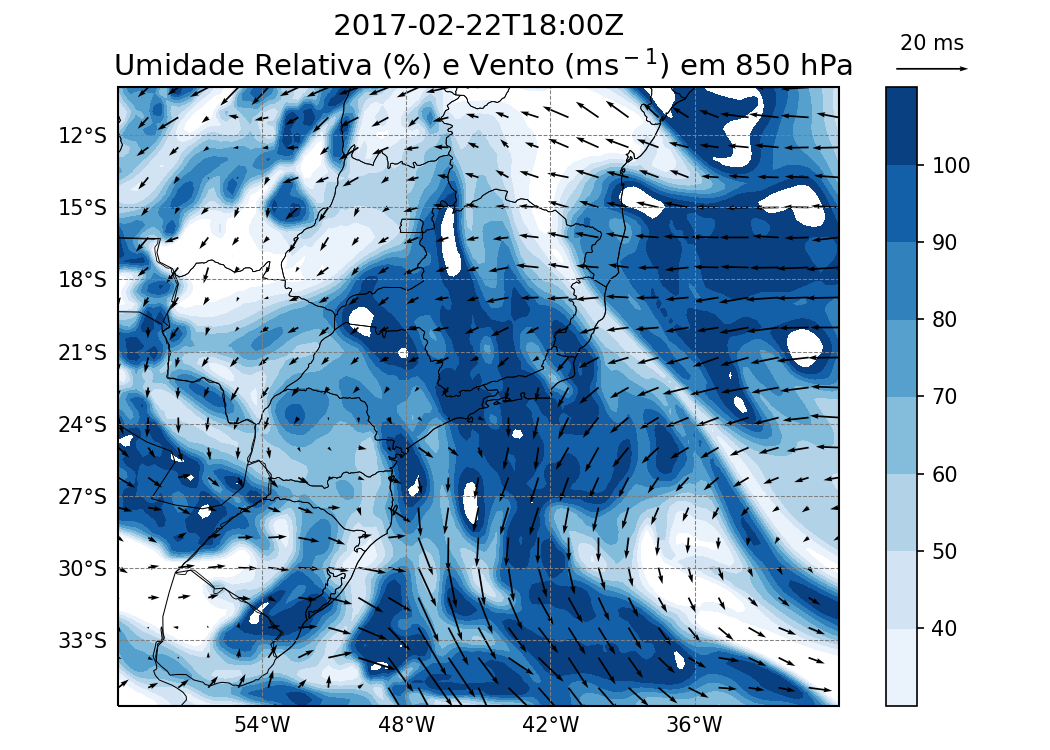
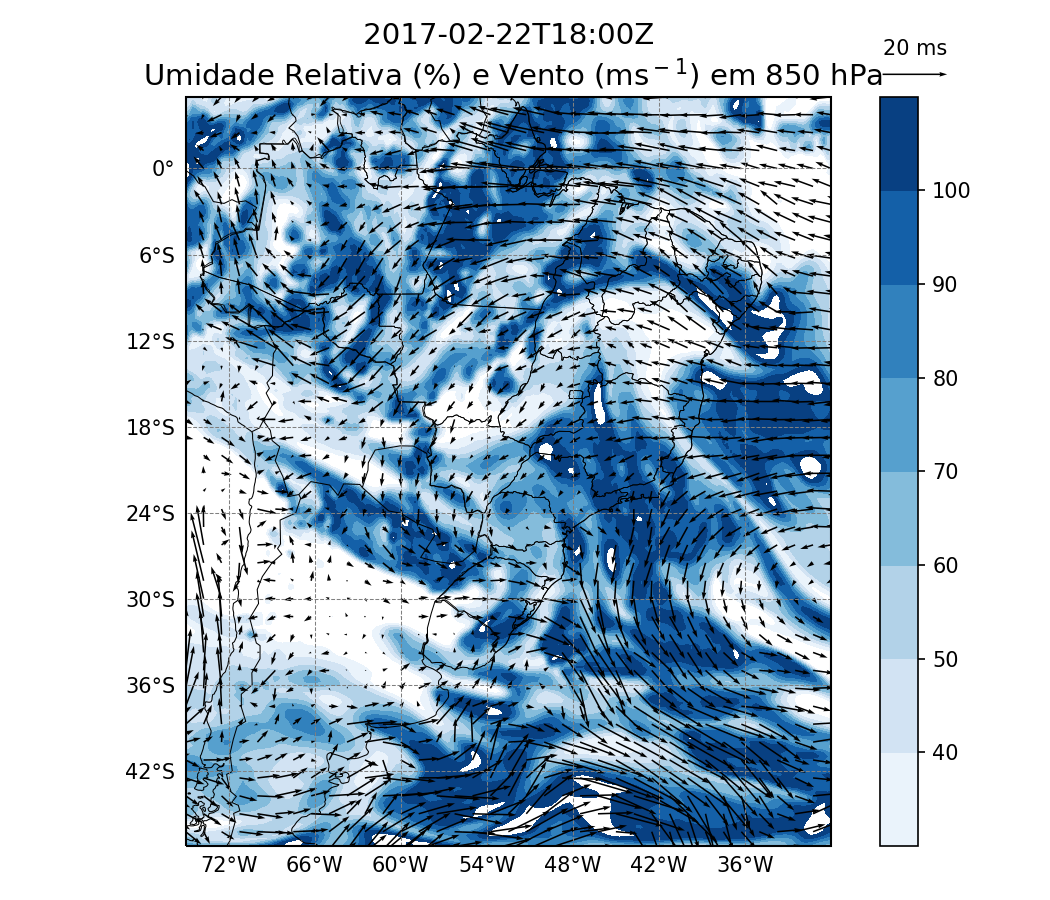
New things!

diff --git a/scripts/ERA_Imagens.py b/scripts/ERA_Imagens.py
@@ -29,12 +29,9 @@ for t in range(0, len(ps['time'])):
     time = ps['time'][t]
     tempo = np.datetime_as_string(time, unit='m', timezone = 'UTC')
          
-    hgt_500 = ps['z'][t][0][:][:]
-    hgt_1000 = ps['z'][t][2][:][:]
-    thk = (hgt_500-hgt_1000)/10
     
-    #Creating the figure plot area:
-    def brazil_states(projection = ccrs.PlateCarree()):
+    #Creating the  plot area:
+    def sudeste_states(projection = ccrs.PlateCarree()):
         fig, ax = plt.subplots(figsize=(7,5), subplot_kw=dict(projection=projection))
         ax.set_extent([-60,-30,-35,-10])
         ax.add_feature(cfeature.COASTLINE.with_scale('50m'), linewidth = 0.5)
@@ -46,30 +43,25 @@ for t in range(0, len(ps['time'])):
         img_plot.yformatter=LATITUDE_FORMATTER
         return fig, ax
     projection = ccrs.PlateCarree()
-    fig, ax = brazil_states()
+    fig, ax = sudeste_states()
     states = NaturalEarthFeature(category='cultural', scale='50m', 
                                  facecolor='none',name='admin_1_states_provinces_shp', linewidth = 0.4)
     states = ax.add_feature(states, edgecolor='black')
     
-    
-    # Ploting jetstreams:
-    upper_u = ps['u'][t][0][:][:]
-    upper_v = ps['v'][t][0][:][:]    
-    jet_stream = mpcalc.wind_speed(upper_u, upper_v)
-    div = ps['d'][t][0][:][:] * 10**4
-    
-    skip = 5
-    plt.title('{} \n Divergência (s$^-$$^1$) 10$^-$$^5$ e  Vento (ms$^-$$^1$) em 200 hPa'.format(tempo), fontsize=14)
-    img_plot = plt.contourf(lons, lats, div, levels = np.arange(-2,3,0.5), cmap='PuBuGn_r', transform=projection)
-    cbr = plt.colorbar(img_plot)
-    img_plot = plt.quiver(lons[::skip], lats[::skip], upper_u[::skip,::skip], upper_v[::skip,::skip],
-                          angles='xy', transform=projection, scale=300)
-    img_plot = plt.quiverkey(img_plot, 1.13, 1.03, 30, '30 m/s')
+    # #Ploting Divergence
+    # div = ps['d'][t][0][:][:] * 10**4
+    # skip = 5
+    # plt.title('{} \n Divergência (s$^-$$^1$) 10$^-$$^5$ e  Vento (ms$^-$$^1$) em 200 hPa'.format(tempo), fontsize=14)
+    # img_plot = plt.contourf(lons, lats, div, levels = np.arange(-2,3,0.5), cmap='PuBuGn_r', transform=projection)
+    # cbr = plt.colorbar(img_plot)
+    # img_plot = plt.quiver(lons[::skip], lats[::skip], upper_u[::skip,::skip], upper_v[::skip,::skip],
+    #                       angles='xy', transform=projection, scale=300)
+    # img_plot = plt.quiverkey(img_plot, 1.13, 1.03, 30, '30 m/s')
 
-    fig.canvas.draw()
-    plt.tight_layout()
-    plt.savefig('/home/isabela/Mestrado/MiniProjects/ERA5/Imagens/Upper_level_0' + tempo + '.png')
-    plt.clf()
+    # fig.canvas.draw()
+    # plt.tight_layout()
+    # plt.savefig('/home/isabela/Weather_Data_Science/ERA5/Imagens/Upper_level_0' + tempo + '.png')
+    # plt.clf()
 
     # #Ploting 850hPa: humidity and wind
     wind_u = ps['u'][t][4][:][:]
@@ -77,7 +69,7 @@ for t in range(0, len(ps['time'])):
     rh_850 = ps['r'][t][1][:][:]
     
     projection = ccrs.PlateCarree()
-    fig, ax = brazil_states()
+    fig, ax = sudeste_states()
     
     states = NaturalEarthFeature(category='cultural', scale='50m', facecolor='none',name='admin_1_states_provinces_shp', linewidth = 0.4)
     states = ax.add_feature(states, edgecolor='black')
@@ -92,15 +84,16 @@ for t in range(0, len(ps['time'])):
 
     fig.canvas.draw()
     plt.tight_layout()
-    plt.savefig('/home/isabela/Mestrado/MiniProjects/ERA5/Imagens/UR_vento_0' + tempo + '.png')
+    plt.savefig('/home/isabela/Weather_Data_Science/ERA5/Imagens/UR_vento_zoom_0' + tempo + '.png')
     plt.clf()
+    
     # Mean RH 
     rh_700 = ps['r'][t][3][:][:]
     rh_500 = ps['r'][t][2][:][:]
     
     mean_rh = (rh_500+rh_700)/2
 
-    fig, ax = brazil_states()
+    fig, ax = sudeste_states()
     states = NaturalEarthFeature(category='cultural', scale='50m', facecolor='none',name='admin_1_states_provinces_shp', linewidth = 0.4)
     states = ax.add_feature(states, edgecolor='black')
     
@@ -113,15 +106,12 @@ for t in range(0, len(ps['time'])):
     fig.canvas.draw()
     plt.tight_layout()
 
-    plt.savefig('/home/isabela/Mestrado/MiniProjects/ERA5/Imagens/UR_Media' + tempo + '.png')
+    plt.savefig('/home/isabela/Weather_Data_Science/ERA5/Imagens/UR_Media' + tempo + '.png')
     plt.clf()
 
 
     # Plotting Surface: MSLP and 850 hPa Temperature
-    prnm = sgl['msl'][t][:][:]
-    prnm = prnm/100
-    smooth_press = smooth2d(prnm,10, cenweight=0.5)
-    t_850 = ps['t'][t][4][:][:] - 273.15
+
     
     
     def brazil(projection = ccrs.PlateCarree()):
@@ -141,21 +131,55 @@ for t in range(0, len(ps['time'])):
     states = NaturalEarthFeature(category='cultural', scale='50m', facecolor='none',name='admin_1_states_provinces_shp', linewidth = 0.4)
     states = ax.add_feature(states, edgecolor='black')
     
-    plt.title('{} \n PRNM (hPa) e Temperatura em 850 hPa'.format(tempo), fontsize=14)
+
+    # #Ploting 850hPa: humidity and wind
+    wind_u = ps['u'][t][4][:][:]
+    wind_v = ps['v'][t][4][:][:]
+    rh_850 = ps['r'][t][1][:][:]
     
-    img_plot = plt.contourf(lons, lats, t_850, transform=projection, cmap = 'coolwarm', levels=np.arange(-15,35,5))
-    plt.colorbar(img_plot)
-    img_plot = plt.contour(lons, lats, smooth_press, colors='black', 
-                           transform=projection, levels=np.arange(smooth_press.min(), smooth_press.max(),4))
-    marker = [(-42,-30),(-42.5,-29)] #usar coordenadas geográficas
-    plt.clabel(img_plot, fmt='%1.f', inline=True, manual=marker)
-       
+    projection = ccrs.PlateCarree()
+    fig, ax = brazil()
+    
+    states = NaturalEarthFeature(category='cultural', scale='50m', facecolor='none',name='admin_1_states_provinces_shp', linewidth = 0.4)
+    states = ax.add_feature(states, edgecolor='black')
+
+    plt.title(' {} \n Umidade Relativa (%) e Vento (ms$^-$$^1$) em 850 hPa'.format(tempo), fontsize=14)
+    
+    img_plot = plt.contourf(lons, lats, rh_850, levels= np.arange(30, 120, 10), cmap='Blues', transform=projection)
+    skip = 5
+    cbr = plt.colorbar(img_plot, ticks = [40,50,60,70,80,90,100])  
+    img_plot = plt.quiver(lons[::skip], lats[::skip], wind_u[::skip,::skip], wind_v[::skip,::skip],transform=projection, scale=200)
+    img_plot = plt.quiverkey(img_plot, 1.13, 1.03, 20, '20 ms')
+
     fig.canvas.draw()
     plt.tight_layout()
-    
-
-    plt.savefig('/home/isabela/Mestrado/MiniProjects/ERA5/Imagens/Temp_press' + tempo + '.png')
+    plt.savefig('/home/isabela/Weather_Data_Science/ERA5/Imagens/UR_vento_0' + tempo + '.png')
     plt.clf()
+    
+    # Ploting jetstreams:
+    upper_u = ps['u'][t][0][:][:]
+    upper_v = ps['v'][t][0][:][:]    
+    jet_stream = mpcalc.wind_speed(upper_u, upper_v)
+    
+    projection = ccrs.PlateCarree()
+    fig, ax = brazil()
+    
+    states = NaturalEarthFeature(category='cultural', scale='50m', facecolor='none',name='admin_1_states_provinces_shp', linewidth = 0.4)
+    states = ax.add_feature(states, edgecolor='black')
+
+    skip = 10
+    plt.title('{} \n Vento (ms$^-$$^1$) em 200 hPa'.format(tempo), fontsize=14)
+    img_plot = plt.contourf(lons, lats, jet_stream, levels = np.arange(20,90,10),cmap='hot_r', transform=projection)
+    cbr = plt.colorbar(img_plot)
+    img_plot = plt.quiver(lons[::skip], lats[::skip], upper_u[::skip,::skip], upper_v[::skip,::skip], transform = projection, scale=500)
+    img_plot = plt.quiverkey(img_plot, 1.13, 1.03, 50, '50 ms')
+
+    fig.canvas.draw()
+    plt.tight_layout()
+    plt.savefig('/home/isabela/Weather_Data_Science/ERA5/Imagens/Upper_level_jet_0' + tempo + '.png')
+    plt.clf()    
+    
+    
 
 
     

diff --git a/scripts/Press_finder.py b/scripts/Press_finder.py
@@ -1,0 +1,75 @@
+# Plotando Temepratura, pressão e espessura:
+import cartopy.crs as ccrs
+import cartopy.feature as cfeature
+import matplotlib.pyplot as plt
+import numpy as np
+import xarray as xr
+import datetime
+import pandas as pd
+import cartopy as crs
+import matplotlib as mpl
+import metpy.calc as mpcalc
+import scipy.ndimage
+from matplotlib import rcParams
+from wrf import smooth2d
+from cartopy.mpl.gridliner import LONGITUDE_FORMATTER, LATITUDE_FORMATTER
+from cartopy.feature import NaturalEarthFeature, LAND, COASTLINE
+plt.rcParams['savefig.dpi'] = 150
+
+
+#########################Change HERE:#####################################
+era_data = '/p1-mega/isabela/ERA5/reanalysis-era5-pressure-levels_feb.nc'
+sg_level_data = '/p1-mega/isabela/ERA5/reanalysis-era5-single-levels_feb.nc'
+##########################################################################
+
+ps = xr.open_dataset(era_data)
+sgl = xr.open_dataset(sg_level_data)
+
+lats = ps['latitude']
+lons = ps['longitude']
+
+time = ps['time'][0]
+tempo = np.datetime_as_string(time, unit='m', timezone = 'UTC')
+
+def brazil(projection = ccrs.PlateCarree()):
+    fig, ax = plt.subplots(figsize=(7,6), subplot_kw=dict(projection=projection))
+    ax.set_extent([-75,-30,-45,5])
+    ax.add_feature(cfeature.COASTLINE.with_scale('50m'), linewidth = 0.5)
+    ax.add_feature(cfeature.STATES, linewidth =0.5)
+    ax.add_feature(cfeature.BORDERS, linewidth=0.5)
+    img_plot=ax.gridlines(crs=ccrs.PlateCarree(), draw_labels=True, linewidth=0.5, color='gray', linestyle='--')    
+    img_plot.xlabels_top = img_plot.ylabels_right = False
+    img_plot.xformatter=LONGITUDE_FORMATTER
+    img_plot.yformatter=LATITUDE_FORMATTER
+    return fig, ax
+
+projection = ccrs.PlateCarree()
+fig, ax = brazil()
+states = NaturalEarthFeature(category='cultural', scale='50m', facecolor='none',name='admin_1_states_provinces_shp', linewidth = 0.4)
+states = ax.add_feature(states, edgecolor='black')
+
+prnm = sgl['msl'][0][:][:]
+prnm = prnm/100
+smooth_press = smooth2d(prnm,10, cenweight=0.5)
+t_850 = ps['t'][0][4][:][:] - 273.15
+
+hgt_500 = ps['z'][0][0][:][:]
+hgt_1000 = ps['z'][0][2][:][:]
+thk = (hgt_500-hgt_1000)/10
+
+plt.title('{} \n PRNM (hPa) e Temperatura em 850 hPa'.format(tempo), fontsize=14)
+    
+img_plot = plt.contourf(lons, lats, t_850, transform=projection, cmap = 'coolwarm', levels=np.arange(-35,35,5))
+plt.colorbar(img_plot)
+img_plot = plt.contour(lons, lats, smooth_press, colors = 'black',
+                        transform=projection, levels=np.arange(smooth_press.min(), smooth_press.max(),4))
+marker = [(-42,-30),(-42.5,-29)] #usar coordenadas geográficas
+plt.clabel(img_plot, fmt='%1.f', inline=True)
+img_plot = plt.contour(lons, lats, thk, levels = np.arange(thk.min(), thk.max(), 50),
+                    transform = projection, linestyles = 'dashed', colors='red')
+
+
+fig.canvas.draw()
+plt.tight_layout()
+#plt.savefig('/home/isabela/Weather_Data_Science/ERA5/Imagens/Temp_press' + tempo + '.png')
+plt.show()

diff --git a/scripts/Radar_chuva.py b/scripts/Radar_chuva.py
@@ -1,0 +1,33 @@
+import wradlib as wrl
+import matplotlib.pyplot as plt
+import cartopy.crs as ccrs
+import cartopy.feature as cfeature
+import cartopy.io.shapereader as shpreader
+import numpy as np
+import glob
+import os
+import pyart
+# For the sake of help
+# https://groups.google.com/forum/#!searchin/wradlib-users/plot$20gamic%7Csort:date/wradlib-users/H8_TIP9Npw0/bs8uF43oCQAJ
+
+scans = [0]
+filenames = []
+
+
+shape = "/home/isabela/Weather_Data_Science/scripts/shapefiles/sp_municipios/35MUE250GC_SIR.shp"
+data, metadata = wrl.io.read_gamic_hdf5('/p1-mega/isabela/radar/SAOROQUE/2017-02-02/RADL01046020170202193023.mvol')
+scandata = data['SCAN0']['Z']['data']
+r = metadata['SCAN0']['r']
+az = metadata['SCAN0']['az']
+# Relação Z-R do Morales:
+R = wrl.zr.z_to_r(scandata, a=378, b=1.34)
+
+fig = plt.figure(figsize=[15,7])
+ax = plt.subplot(projection=ccrs.PlateCarree())
+ax_1 = plt.subplot(projection=ccrs.PlateCarree())
+ax_1 = ax_1.add_geometries(shpreader.Reader(shape).geometries(), ccrs.PlateCarree(), 
+                        edgecolor='black', facecolor='none', alpha=0.5)
+
+
+
+

diff --git a/scripts/Radar_refletividade.py b/scripts/Radar_refletividade.py
@@ -13,13 +13,12 @@ from datetime import datetime
 
 plt.rcParams.update({'figure.max_open_warning': 0})
 plt.rcParams.update({'font.size':15})
-
 campinas_lat = -22.9
 campinas_lon = -47.06
 sp_lat = -23.55
 sp_lon = -46.65
 date = "2017-02-22"
-shape = "/home/isabela/Mestrado/MiniProjects/scripts/shapefiles/sp_municipios/35MUE250GC_SIR.shp"
+shape = "/home/isabela/Weather_Data_Science/scripts/shapefiles/sp_municipios/35MUE250GC_SIR.shp"
 radar = os.listdir('/p1-mega/isabela/radar/SAOROQUE/' + date)
 
 for f in radar:
